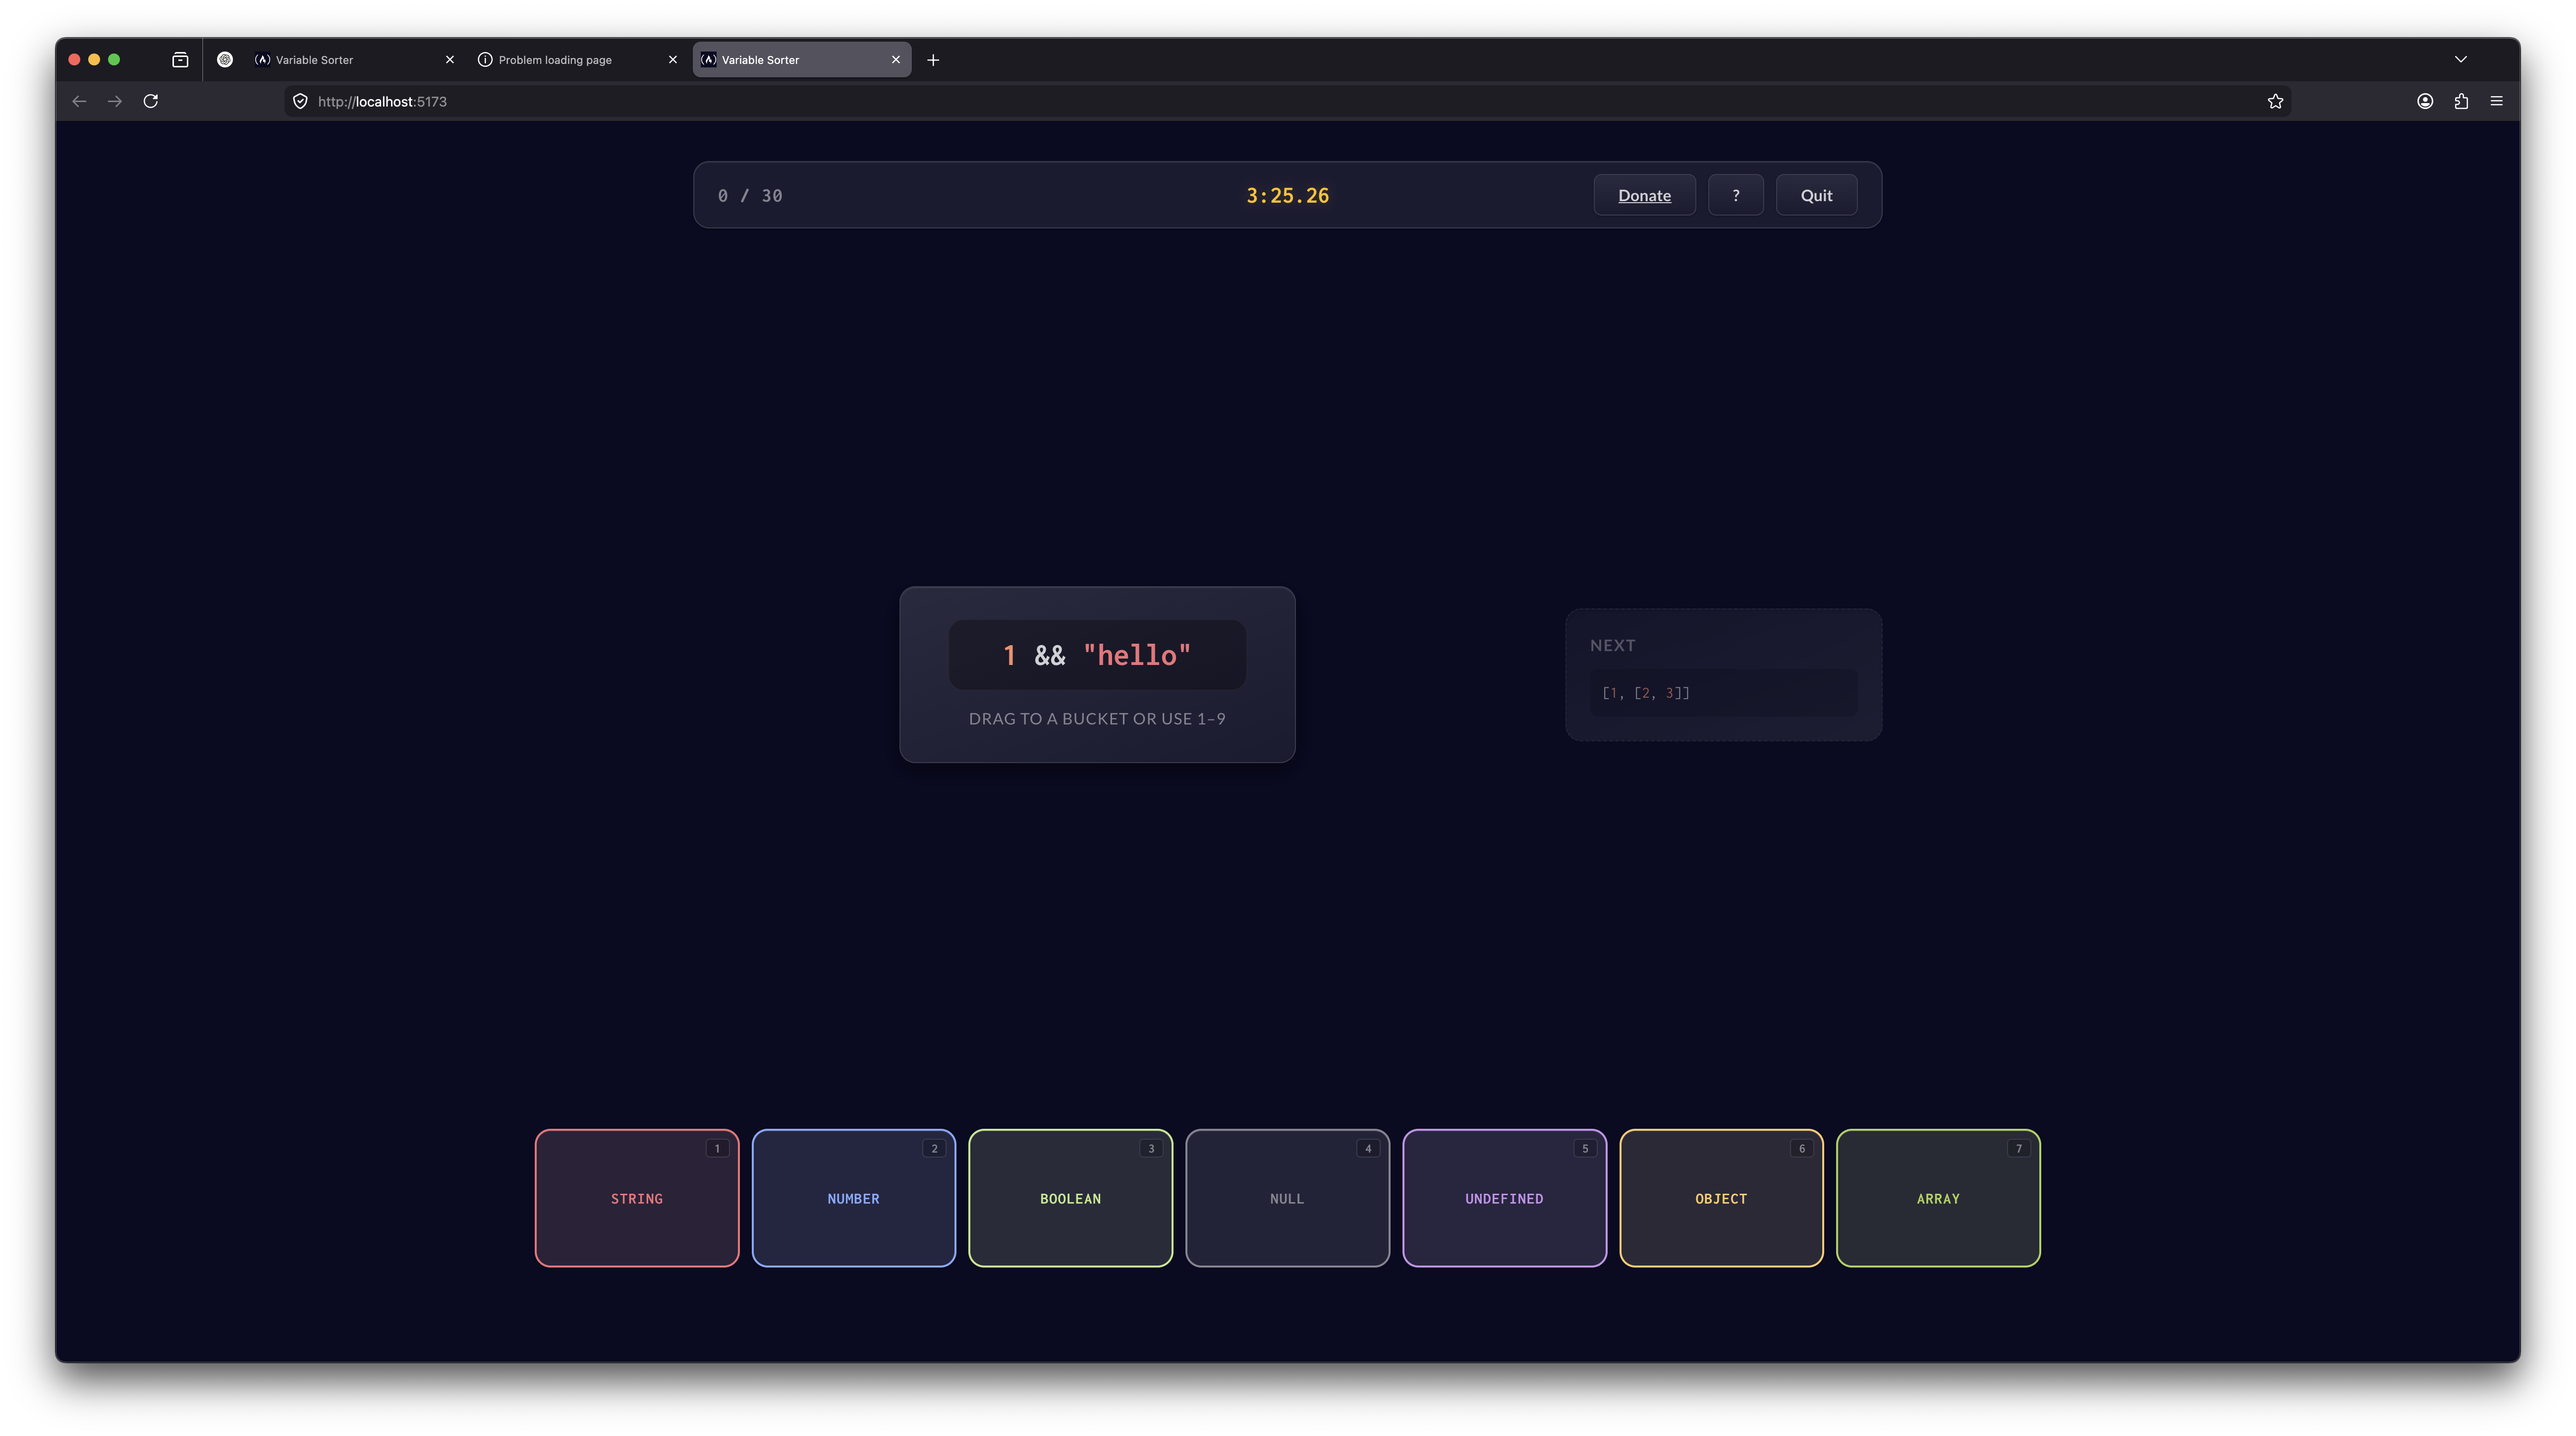
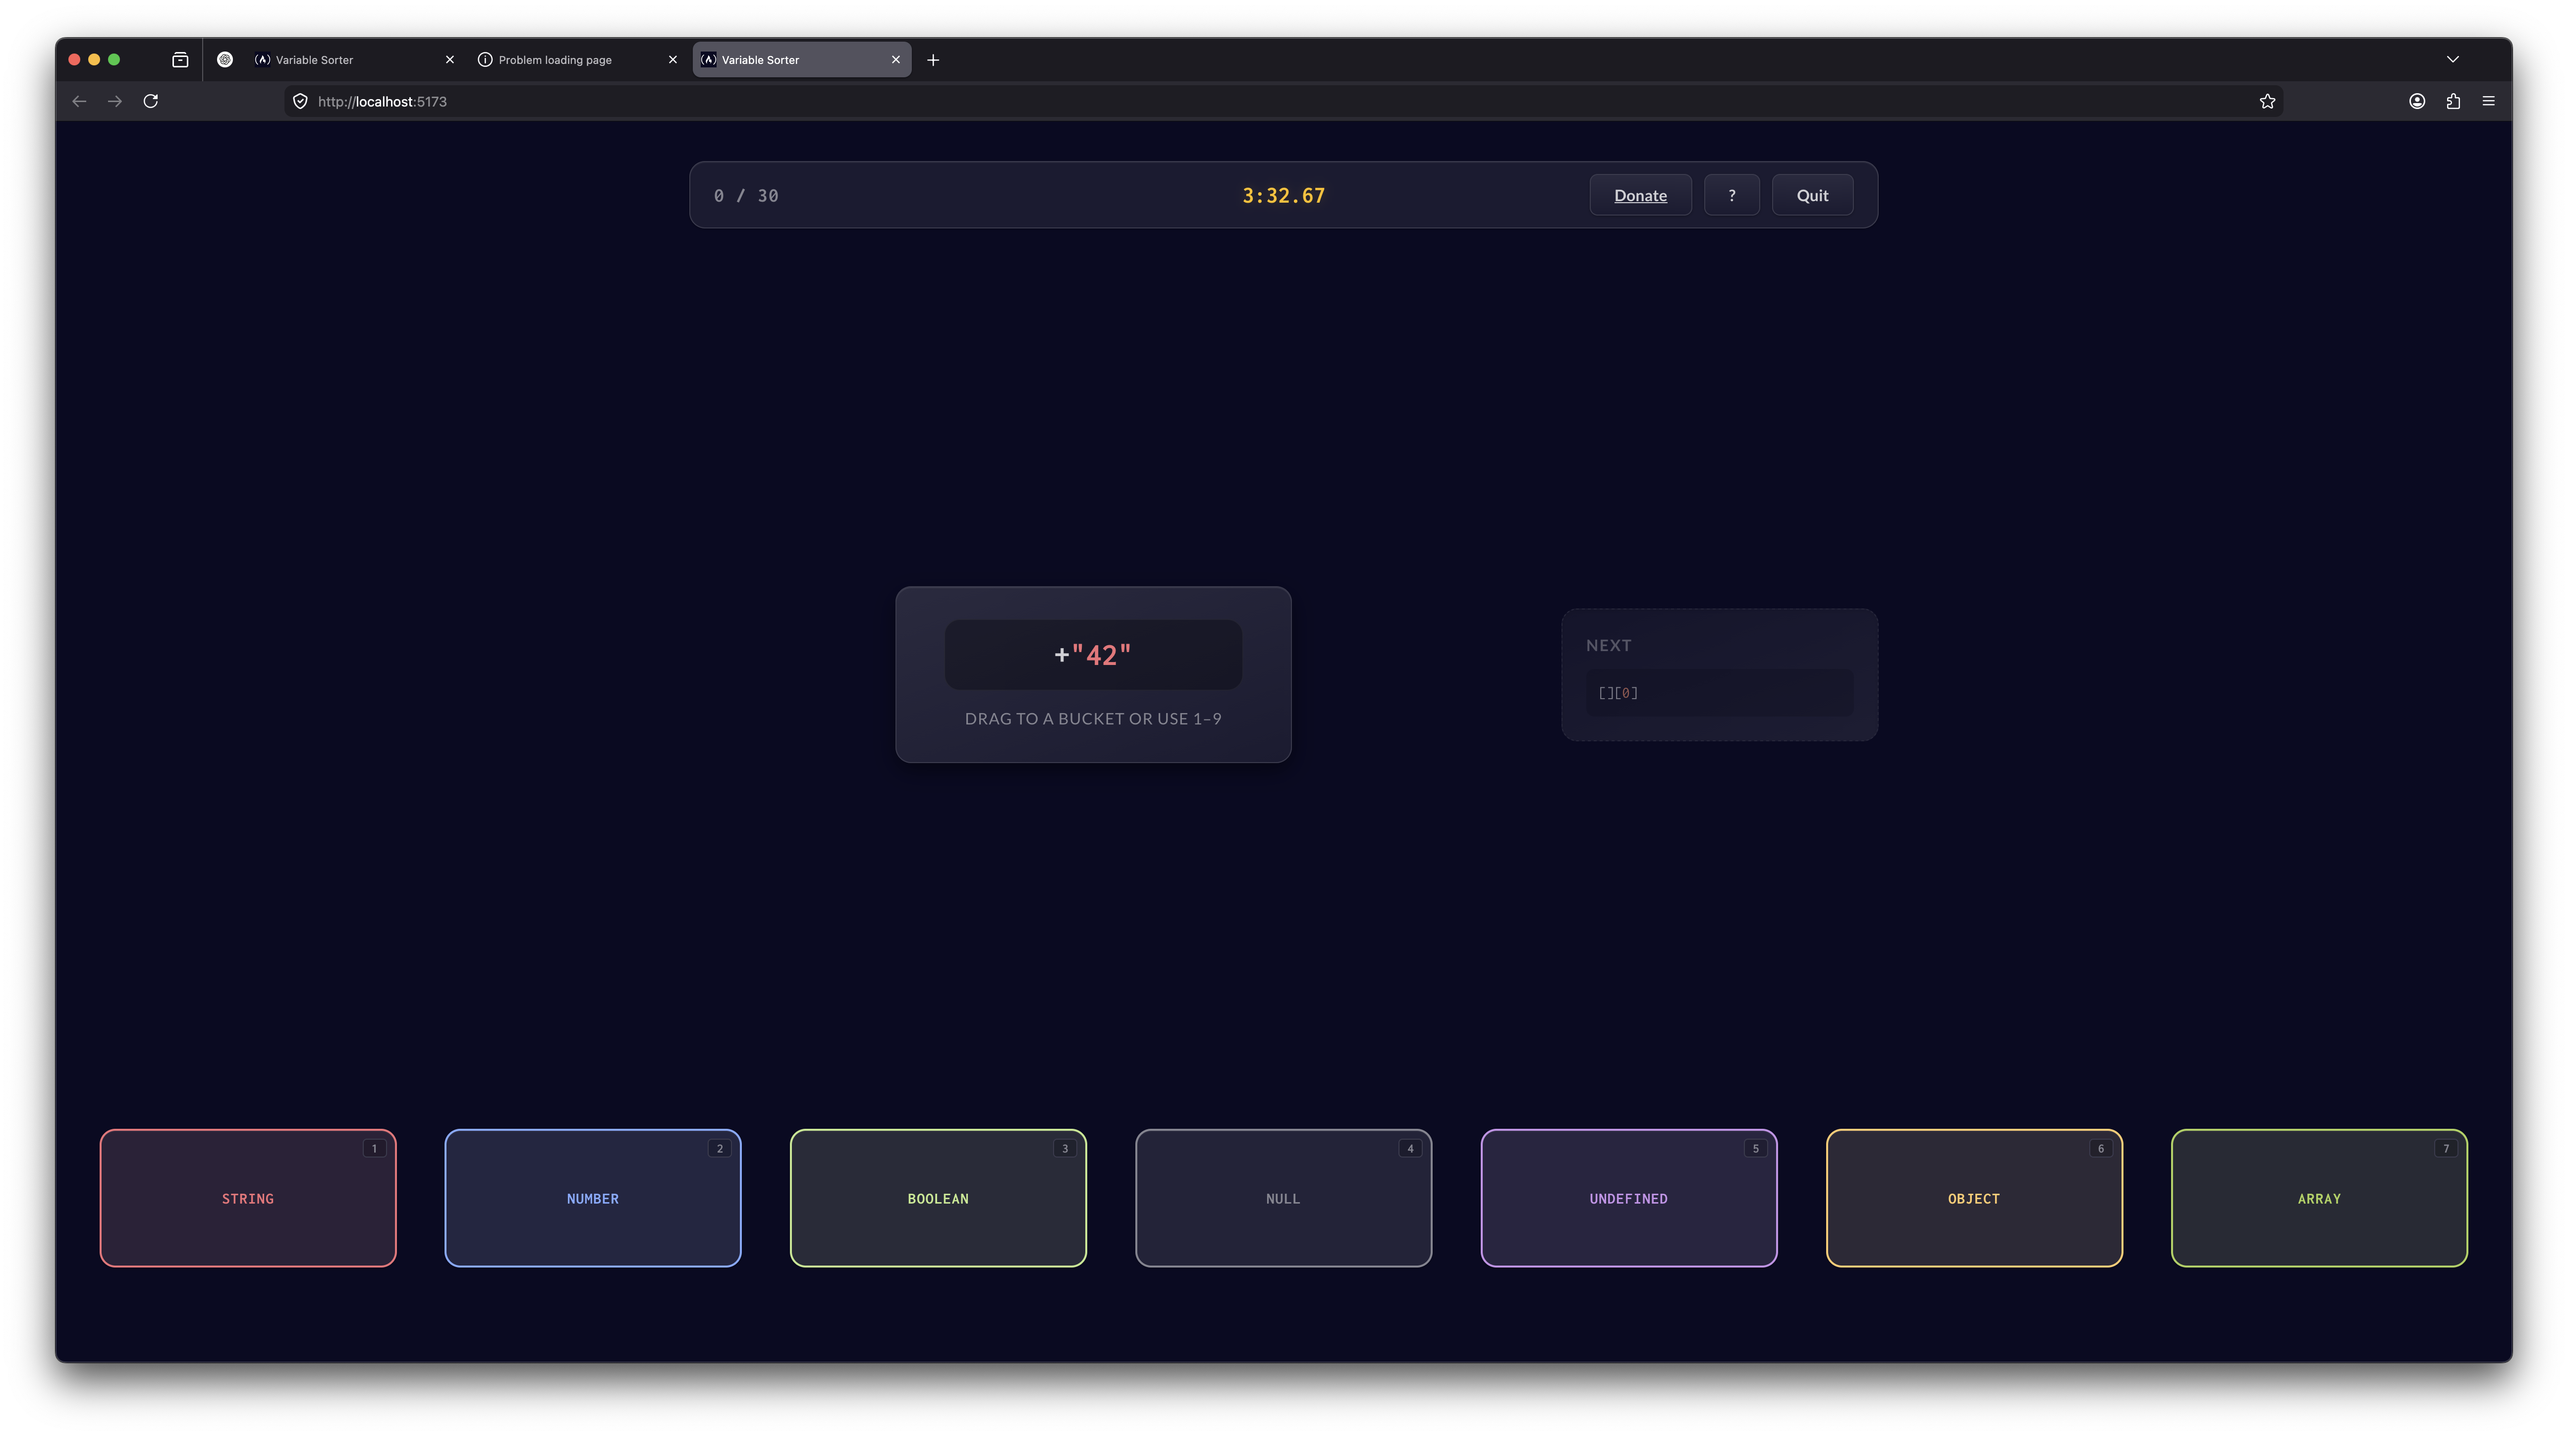
feat: more variable sorter

diff --git a/variable-sorter/src/PlayScreen.tsx b/variable-sorter/src/PlayScreen.tsx
@@ -125,6 +125,9 @@ export default function PlayScreen({ state, onDrop, onQuit, onShowHelp }: Props)
       </div>
 
       <div className="play-area">
+        <div className="preview-zone">
+          <NextPreview variable={state.next} />
+        </div>
         <div className="card-zone">
           {state.current && (
             <VariableCard
@@ -136,9 +139,6 @@ export default function PlayScreen({ state, onDrop, onQuit, onShowHelp }: Props)
               onDragMove={(x, y) => setDragPos({ x, y })}
             />
           )}
-        </div>
-        <div className="preview-zone">
-          <NextPreview variable={state.next} />
         </div>
       </div>
 

diff --git a/variable-sorter/src/PlayScreen.css b/variable-sorter/src/PlayScreen.css
@@ -83,11 +83,11 @@
 /* Play area: current card + next preview */
 .play-area {
   display: flex;
+  flex-direction: column;
   align-items: center;
   justify-content: center;
-  gap: var(--space-8);
+  gap: var(--space-4);
   width: 100%;
-  max-width: 1200px;
   flex: 1;
 }
 
@@ -95,14 +95,12 @@
   display: flex;
   align-items: center;
   justify-content: center;
-  flex: 1.5;
 }
 
 .preview-zone {
   display: flex;
   align-items: center;
   justify-content: center;
-  flex: 1;
   max-width: 320px;
 }
 

diff --git a/variable-sorter/src/Bucket.css b/variable-sorter/src/Bucket.css
@@ -2,7 +2,7 @@
   flex: 1;
   min-width: 80px;
   max-width: 300px;
-  min-height: 140px;
+  min-height: 200px;
   display: flex;
   flex-direction: column;
   align-items: center;
